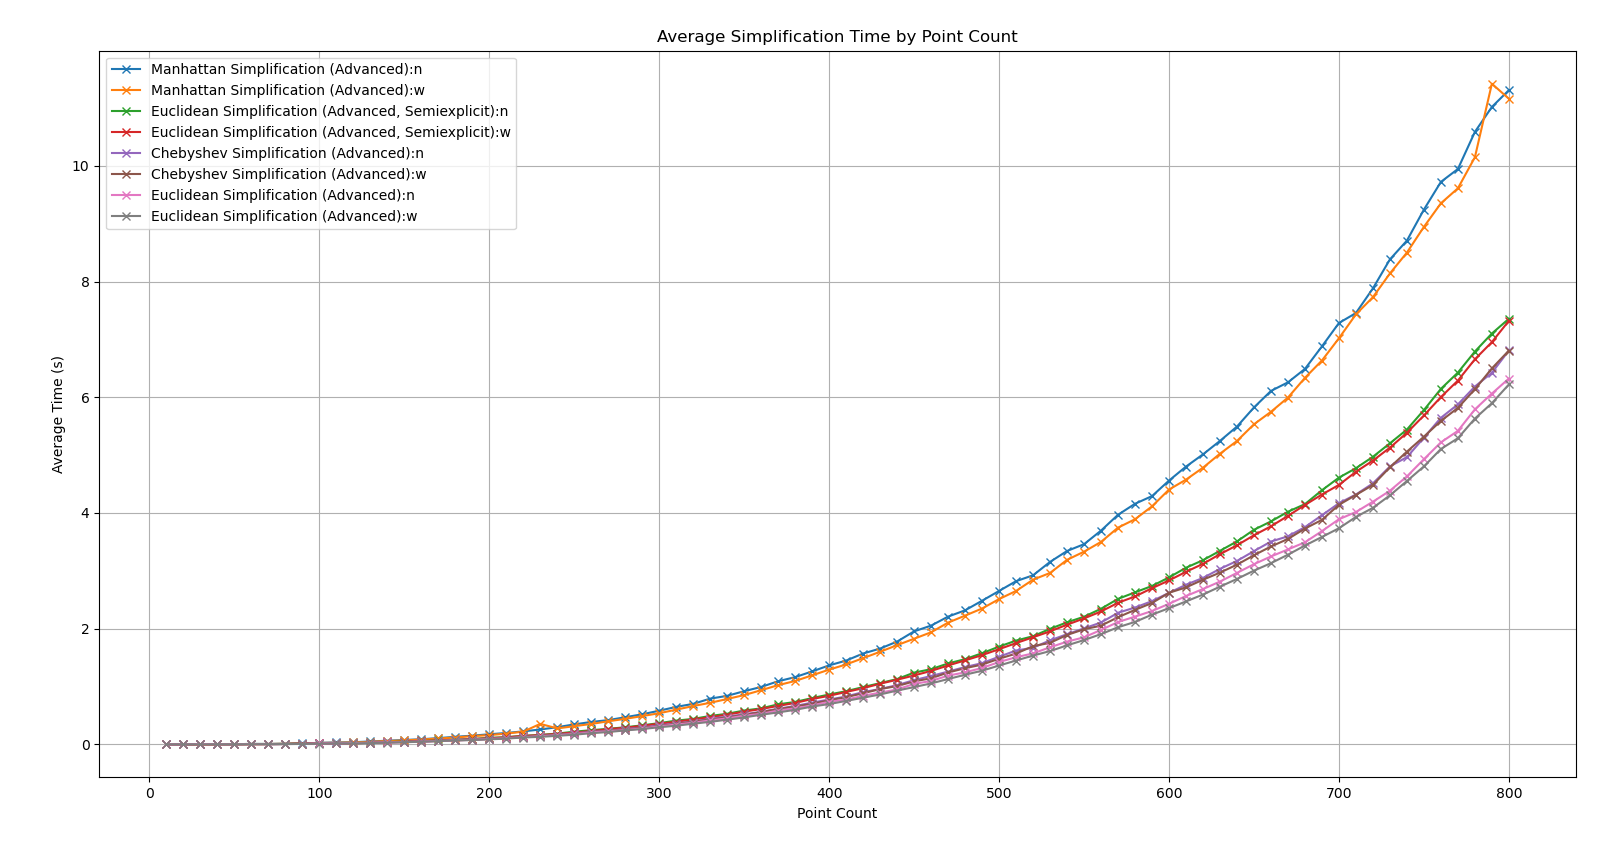
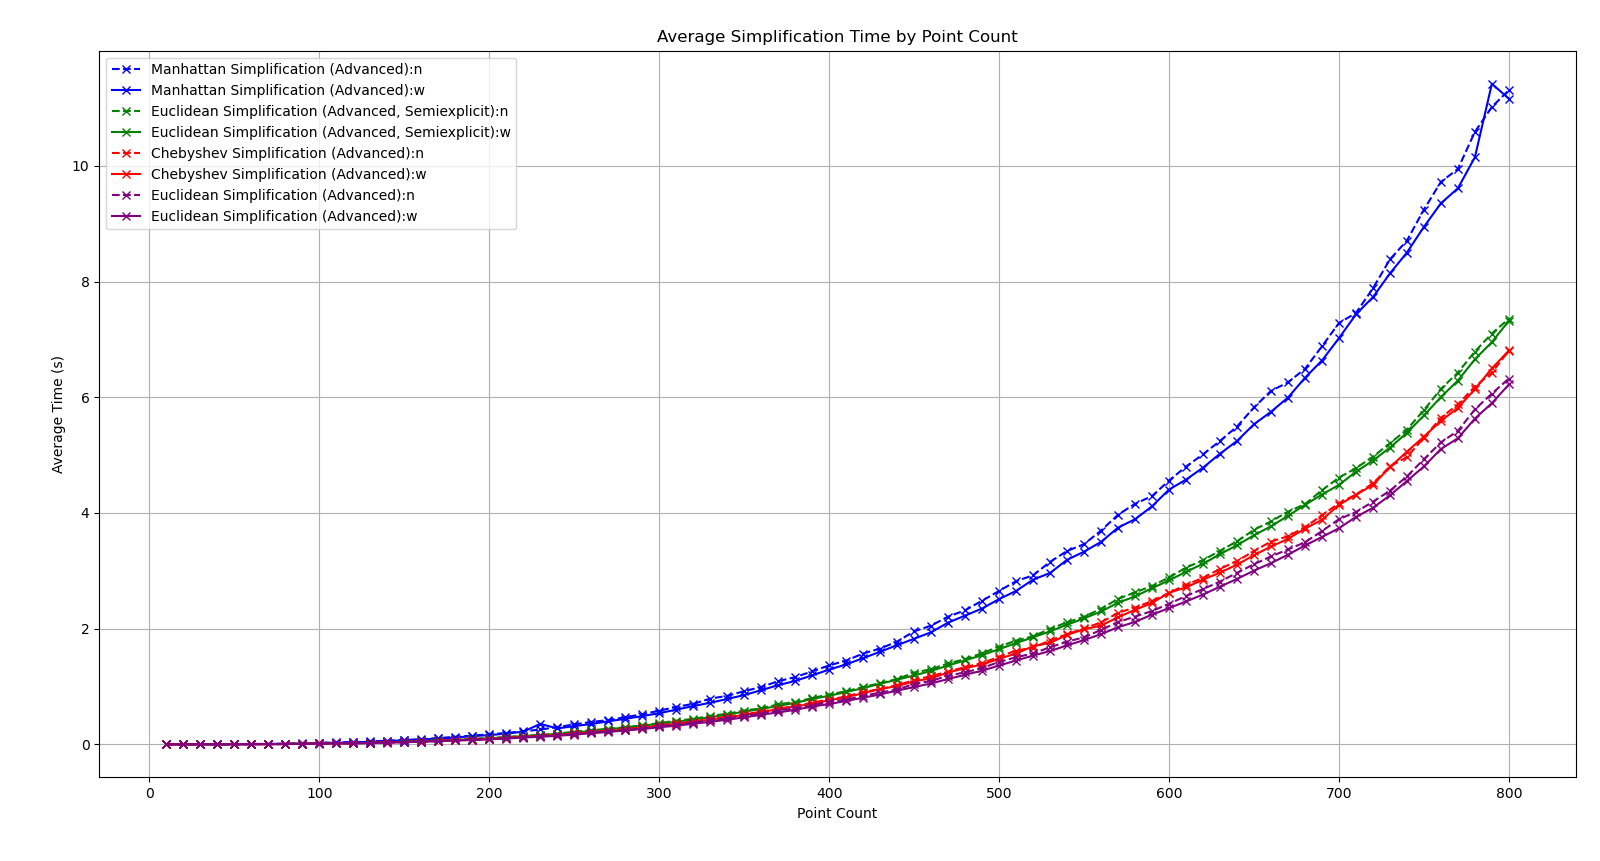
add more to simplification size results, unify performance plot appearances

diff --git a/thesis/section_results.tex b/thesis/section_results.tex
@@ -125,6 +125,37 @@ We now examine in more detail the dependence of the input data on the runtime of
 \end{figure}
 
 \subsubsection{Simplification Size}
+Having compared the performance of the algorithms, we now compare the simplifications and their sizes. This is independent of the algorithm used but instead only depends on the distance type, input data, and the epsilon used.
+
+\cref{fig:simplification_sizes} shows the averaged computed sizes of the same data that was used for \cref{fig:res_all300w} and \cref{fig:res_simple}. It can clearly be seen that the Chebyshev simplifications are the smallest and the Manhattan ones are the largest which we already know from \cref{cor:size_monotonicity}. However, the sizes are more impacted by the well-behavedness than by the distance used as the difference between the well-behaved Manhattan and the non-well-behaved Chebyshev simplifications is larger than the difference between the non-well-behaved or the well-behaved respectively. Other Minkowski distances \(\delta_\ell\) would fall in the region between the Euclidean and Chebyshev distance if \(\ell > 2\) or between the Euclidean and Manhattan distance if \(\ell \in (1,2)\) so there would not be more spread in those well-behavednes clusters.
+
+\begin{figure}[b]
+  \centering
+	\includegraphics[scale=0.4]{./figures/simplification_sizes.png}
+  \caption{Average simplification sizes of the tested data.}
+  \label{fig:simplification_sizes}
+\end{figure}
+
+Now we investigate the effect of the \(\varepsilon\) on the simplification size in \cref{fig:vary_e10} and \cref{fig:vary_e200}. For this we computed all intervals and the resulting simplification sizes using the algorithm from \cref{sec:simplification-queries}. After the computation, we normalized the \(\varepsilon\) to fit into the interval \([0, 1]\) by dividing by \(\delta(P, e)\) for each polyline \(P\) where \(e\) is the line segment from the first to the last point, i.e., the shortest simplification. Thus for normalized \(\varepsilon > 1\) the plot would be a constant \(2\) is thus not shown. 
+
+Again, we can clearly see a difference between well-behaved and non-well-behaved polylines. Both roughly look like rectangular hyperbolas where the well-behaved data is noticeably closer to the axes which means that a smaller \(\varepsilon\) suffices for a large point reduction. Further, the non-well-behaved data looks less smooth which is possibly because of the greater variance in the data.
+
+Interestingly, all four plots seem to approach concave functions for which we have no explanation.
+
+\begin{figure}[b]
+  \centering
+	\includegraphics[scale=0.4]{./figures/vary_e10.png}
+  \caption{Average simplification sizes of 20 polylines of length 10 over normalized \(\varepsilon\). Well-behaved in red and non-well-behaved in blue.}
+  \label{fig:vary_e10}
+\end{figure}
+
+\begin{figure}[b]
+  \centering
+	\includegraphics[scale=0.4]{./figures/vary_e200.png}
+  \caption{Simplification sizes of a polyline of length 200 over normalized \(\varepsilon\). Well-behaved in red and non-well-behaved in blue.}
+  \label{fig:vary_e200}
+\end{figure}
+
 
 \label{ssubsec:simplification_size}
 
